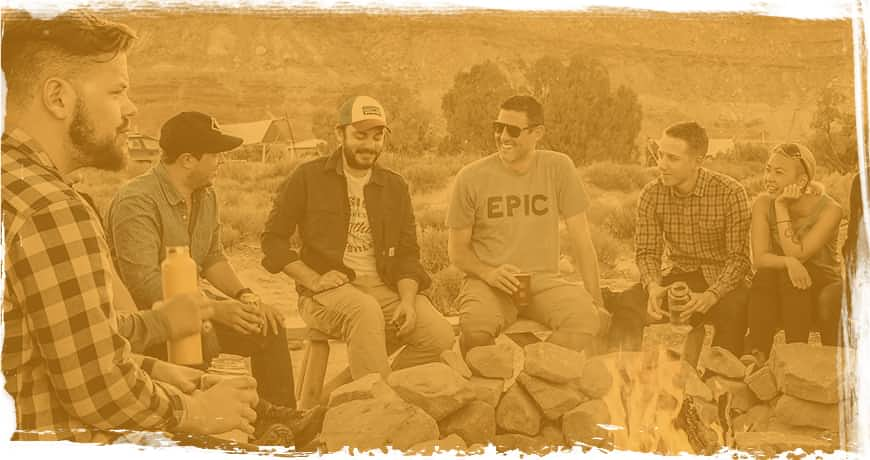
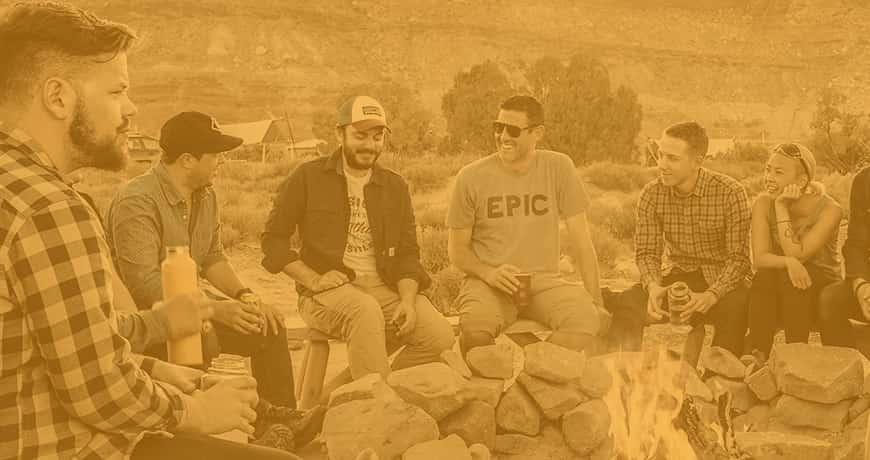
Доделал фон для программы

Changed region(s): [[0.0, 0.0, 1.0, 1.0], [0.0, 0.1522, 0.031, 0.3043]]

diff --git a/build/css/style.min.css b/build/css/style.min.css
@@ -1,4 +1,4 @@
 @font-face{font-display:swap;font-family:"Raleway";font-style:normal;font-weight:800;src:url(../fonts/raleway-800.woff2) format("woff2"),url(../fonts/raleway-800.woff) format("woff")}@font-face{font-display:swap;font-family:"Montserrat";font-style:normal;font-weight:700;src:url(../fonts/montserrat-700.woff2) format("woff2"),url(../fonts/montserrat-700.woff) format("woff")}@font-face{font-display:swap;font-family:"Fira Sans";font-style:normal;font-weight:400;src:url(../fonts/firasans-400.woff2) format("woff2"),url(../fonts/firasans-400.woff) format("woff")}@font-face{font-display:swap;font-family:"Fira Sans";font-style:normal;font-weight:500;src:url(../fonts/firasans-500.woff2) format("woff2"),url(../fonts/firasans-500.woff) format("woff")}@font-face{font-display:swap;font-family:"Fira Sans";font-style:normal;font-weight:700;src:url(../fonts/firasans-700.woff2) format("woff2"),url(../fonts/firasans-700.woff) format("woff")}
 /*! normalize.css v8.0.1 | MIT License | github.com/necolas/normalize.css */
-html{line-height:1.15;-webkit-text-size-adjust:100%}body{margin:0}details,main{display:block}h1{font-size:2em;margin:.67em 0}hr{-webkit-box-sizing:content-box;box-sizing:content-box;height:0;overflow:visible}code,kbd,pre,samp{font-family:monospace,monospace;font-size:1em}a{background-color:transparent}abbr[title]{border-bottom:none;-webkit-text-decoration:underline dotted;text-decoration:underline dotted}b,strong{font-weight:bolder}small{font-size:80%}sub,sup{font-size:75%;line-height:0;position:relative;vertical-align:baseline}sub{bottom:-.25em}sup{top:-.5em}img{border-style:none}button,input,optgroup,select,textarea{font-family:inherit;font-size:100%;line-height:1.15;margin:0}button,input{overflow:visible}button,select{text-transform:none}[type=button],[type=reset],[type=submit],button{-webkit-appearance:button}[type=button]::-moz-focus-inner,[type=reset]::-moz-focus-inner,[type=submit]::-moz-focus-inner,button::-moz-focus-inner{border-style:none;padding:0}[type=button]:-moz-focusring,[type=reset]:-moz-focusring,[type=submit]:-moz-focusring,button:-moz-focusring{outline:1px dotted ButtonText}fieldset{padding:.35em .75em .625em}legend{color:inherit;display:table;max-width:100%;white-space:normal}progress{vertical-align:baseline}textarea{overflow:auto}[type=checkbox],[type=radio],legend{-webkit-box-sizing:border-box;box-sizing:border-box;padding:0}[type=number]::-webkit-inner-spin-button,[type=number]::-webkit-outer-spin-button{height:auto}[type=search]{-webkit-appearance:textfield;outline-offset:-2px}[type=search]::-webkit-search-decoration{-webkit-appearance:none}::-webkit-file-upload-button{-webkit-appearance:button;font:inherit}summary{display:list-item}[hidden],template{display:none}*,::after,::before{-webkit-box-sizing:border-box;box-sizing:border-box}.visually-hidden{border:0;clip:rect(0 0 0 0);clip:rect(0,0,0,0);height:1px;margin:-1px;overflow:hidden;padding:0;position:absolute;width:1px}.container{padding:0 110px}@media screen and (max-width:767px){.container{padding:0 16px}}.d-flex{display:-webkit-box;display:-ms-flexbox;display:flex}.sprite{position:relative;background-image:url(../img/sprite/sprite@1x.png);background-repeat:no-repeat;background-size:341px 183px;display:block}.sprite--logo-header{width:137px;height:48px;background-position:-5px -130px}.sprite--logo-footer{width:85px;height:27px;background-position:-5px -89px}.sprite--bag{width:32px;height:25px;background-position:-5px -5px}.sprite--hand{width:32px;height:29px;background-position:-131px -5px}.sprite--hat{width:36px;height:35px;background-position:-47px -44px}.sprite--relig{width:23px;height:25px;background-position:-209px -57px}.sprite--star{width:28px;height:33px;background-position:-308px -57px}.sprite-container:hover .sprite--bag{background-position:-89px -5px}.sprite-container:hover .sprite--hand{background-position:-5px -44px}.sprite-container:hover .sprite--hat{background-position:-139px -44px}.sprite-container:hover .sprite--relig{background-position:-275px -57px}.sprite-container:hover .sprite--star{background-position:-247px -100px}.sprite-container:active .sprite--bag{background-position:-47px -5px}.sprite-container:active .sprite--hand{background-position:-173px -5px}.sprite-container:active .sprite--hat{background-position:-93px -44px}.sprite-container:active .sprite--relig{background-position:-242px -57px}.sprite-container:active .sprite--star{background-position:-209px -100px}.sprite img,.sprite picture{height:0;left:0;position:absolute;top:0;width:0}@media screen and (max-width:767px){.sprite--logo-header{width:120px;height:42px;background-position:-215px -5px}.sprite--logo-footer{width:99px;height:31px;background-position:-100px -89px}}@media (-webkit-min-device-pixel-ratio:1.5),(min-resolution:144dpi),(min-resolution:1.5dppx){.sprite{background-image:url(../img/sprite/sprite@2x.png)}}.list{list-style:none;margin:0;padding:0}.button{background-color:transparent;border:0;font-variant:small-caps;font-weight:600;padding:0;text-transform:lowercase}.button:hover{cursor:pointer}.link{color:inherit;text-decoration:none}.link:not(.active-link):hover{cursor:pointer}.link:not(.active-link):focus,.link:not(.active-link):hover{text-decoration:underline}.section{max-width:100%}.section h2{color:#1fc0fc;font-family:"Montserrat",Arial,"Helvetica CY","Nimbus Sans L",sans-serif;font-size:4rem;letter-spacing:-.02em;line-height:4.9rem;margin:0 0 25px;text-transform:uppercase}.section p{font-size:1.7rem;line-height:2.9rem}@media screen and (max-width:767px){.section h2{font-size:3.2rem;line-height:3.9rem}.section p{font-size:1.6rem;line-height:2.6rem}}:root{font-size:62.5%}.body{background-color:#fff;display:-webkit-box;display:-ms-flexbox;display:flex;-webkit-box-orient:vertical;-webkit-box-direction:normal;-ms-flex-direction:column;flex-direction:column;font-family:"Fira Sans",Arial,"Helvetica CY","Nimbus Sans L",sans-serif;font-size:1.7rem;line-height:1.7;height:100vh;max-width:1366px;margin:0 auto;min-width:320px;position:relative;width:100%}.body>*{-ms-flex-negative:0;flex-shrink:0}.header-container{padding-right:114px}.header{height:48px;font-size:1.5rem;font-weight:500;left:0;position:absolute;top:32px;width:100%;z-index:1}.header__logo{left:50%;position:absolute;top:0;-webkit-transform:translateX(-50%);transform:translateX(-50%)}.header__contacts{-webkit-box-align:center;-ms-flex-align:center;align-items:center;height:100%;-webkit-box-pack:justify;-ms-flex-pack:justify;justify-content:space-between;width:100%}.header__button{font-size:inherit;letter-spacing:.1em;position:relative}.header__button::after{border-bottom:2px #484848 solid;-o-border-image:repeating-linear-gradient(90deg,#484848,#484848 2px,transparent 2px,transparent 6px,#484848 6px,#484848 8px) 1;border-image:repeating-linear-gradient(90deg,#484848,#484848 2px,transparent 2px,transparent 6px,#484848 6px,#484848 8px) 1;bottom:-3px;content:"";display:block;left:0;position:absolute;width:100%}.header__button:hover,.header__phone:hover{opacity:.75}@media screen and (max-width:767px){.header-container{padding-right:7px}.header{top:20px;font-size:1.4rem}.header__logo{-ms-flex-negative:0;flex-shrink:0;position:static;-webkit-transform:none;transform:none}.header__contacts{-webkit-box-orient:vertical;-webkit-box-direction:normal;-ms-flex-direction:column;flex-direction:column;-webkit-box-align:end;-ms-flex-align:end;align-items:flex-end;margin-top:-3px}.header__button{margin-right:2px}}.banner{-webkit-box-align:center;-ms-flex-align:center;align-items:center;color:#fff;-webkit-box-orient:vertical;-webkit-box-direction:normal;-ms-flex-direction:column;flex-direction:column;overflow:hidden;position:relative;width:100%}.banner p{font-size:2.4rem;font-weight:700;line-height:2.9rem;margin-top:538px;text-align:center;text-shadow:0 1px 4px rgba(0,0,0,.12);width:343px}.banner__scroll-button{height:132px;margin-top:9px;margin-bottom:145px;width:76px}.banner img,.banner picture{left:0;min-height:100%;min-width:100%;position:absolute;top:0;z-index:-1}.banner img{left:50%;height:auto;-webkit-transform:translateX(-50%);transform:translateX(-50%);width:auto}@media screen and (max-width:767px){.banner{margin-top:32px}.banner p{font-size:2rem;line-height:2.4rem;margin-top:303px;width:290px}.banner__scroll-button{margin-top:12px;margin-bottom:85px}}.about{-webkit-box-align:center;-ms-flex-align:center;align-items:center;-webkit-box-orient:vertical;-webkit-box-direction:normal;-ms-flex-direction:column;flex-direction:column;margin-top:-11px}.about__info{max-width:100%}.about__info h2,.about__info p{text-align:center}.about__info p{margin:0 auto;max-width:69rem}.about__video-container{margin-top:47px;max-width:100%;position:relative}.about video{display:block;height:auto;max-width:870px;min-height:224px;-o-object-fit:cover;object-fit:cover;width:100%}.about__video-button,.about__video-button svg{display:block;height:96px;width:96px;position:absolute}.about__video-button{border:0;border-radius:100%;background-color:transparent;cursor:pointer;padding:0;overflow:hidden;-webkit-transform:translate(-50%,-50%);transform:translate(-50%,-50%);left:50%;top:50%}.about__video-button svg{left:0;top:0}.about__video-button .play{fill:#1fc0fc}.about__video-button:hover .play{fill:#63d3fd}.about__video-button:hover .inner{-webkit-filter:url(#about__filter0);filter:url(#about__filter0)}.about__video-button:active .inner{fill:#f4f4f4}@media screen and (max-width:767px){.about{margin-top:0}.about__info p{text-align:left}.about__video-button,.about__video-button svg{height:80px;width:80px}}
+html{line-height:1.15;-webkit-text-size-adjust:100%}body{margin:0}details,main{display:block}h1{font-size:2em;margin:.67em 0}hr{-webkit-box-sizing:content-box;box-sizing:content-box;height:0;overflow:visible}code,kbd,pre,samp{font-family:monospace,monospace;font-size:1em}a{background-color:transparent}abbr[title]{border-bottom:none;-webkit-text-decoration:underline dotted;text-decoration:underline dotted}b,strong{font-weight:bolder}small{font-size:80%}sub,sup{font-size:75%;line-height:0;position:relative;vertical-align:baseline}sub{bottom:-.25em}sup{top:-.5em}img{border-style:none}button,input,optgroup,select,textarea{font-family:inherit;font-size:100%;line-height:1.15;margin:0}button,input{overflow:visible}button,select{text-transform:none}[type=button],[type=reset],[type=submit],button{-webkit-appearance:button}[type=button]::-moz-focus-inner,[type=reset]::-moz-focus-inner,[type=submit]::-moz-focus-inner,button::-moz-focus-inner{border-style:none;padding:0}[type=button]:-moz-focusring,[type=reset]:-moz-focusring,[type=submit]:-moz-focusring,button:-moz-focusring{outline:1px dotted ButtonText}fieldset{padding:.35em .75em .625em}legend{color:inherit;display:table;max-width:100%;white-space:normal}progress{vertical-align:baseline}textarea{overflow:auto}[type=checkbox],[type=radio],legend{-webkit-box-sizing:border-box;box-sizing:border-box;padding:0}[type=number]::-webkit-inner-spin-button,[type=number]::-webkit-outer-spin-button{height:auto}[type=search]{-webkit-appearance:textfield;outline-offset:-2px}[type=search]::-webkit-search-decoration{-webkit-appearance:none}::-webkit-file-upload-button{-webkit-appearance:button;font:inherit}summary{display:list-item}[hidden],template{display:none}*,::after,::before{-webkit-box-sizing:border-box;box-sizing:border-box}.visually-hidden{border:0;clip:rect(0 0 0 0);clip:rect(0,0,0,0);height:1px;margin:-1px;overflow:hidden;padding:0;position:absolute;width:1px}.container{padding:0 110px}@media screen and (max-width:767px){.container{padding:0 16px}}.d-flex{display:-webkit-box;display:-ms-flexbox;display:flex}.sprite{position:relative;background-image:url(../img/sprite/sprite@1x.png);background-repeat:no-repeat;background-size:341px 183px;display:block}.sprite--logo-header{width:137px;height:48px;background-position:-5px -130px}.sprite--logo-footer{width:85px;height:27px;background-position:-5px -89px}.sprite--bag{width:32px;height:25px;background-position:-5px -5px}.sprite--hand{width:32px;height:29px;background-position:-131px -5px}.sprite--hat{width:36px;height:35px;background-position:-47px -44px}.sprite--relig{width:23px;height:25px;background-position:-209px -57px}.sprite--star{width:28px;height:33px;background-position:-308px -57px}.sprite-container:hover .sprite--bag{background-position:-89px -5px}.sprite-container:hover .sprite--hand{background-position:-5px -44px}.sprite-container:hover .sprite--hat{background-position:-139px -44px}.sprite-container:hover .sprite--relig{background-position:-275px -57px}.sprite-container:hover .sprite--star{background-position:-247px -100px}.sprite-container:active .sprite--bag{background-position:-47px -5px}.sprite-container:active .sprite--hand{background-position:-173px -5px}.sprite-container:active .sprite--hat{background-position:-93px -44px}.sprite-container:active .sprite--relig{background-position:-242px -57px}.sprite-container:active .sprite--star{background-position:-209px -100px}.sprite img,.sprite picture{height:0;left:0;position:absolute;top:0;width:0}@media screen and (max-width:767px){.sprite--logo-header{width:120px;height:42px;background-position:-215px -5px}.sprite--logo-footer{width:99px;height:31px;background-position:-100px -89px}}@media (-webkit-min-device-pixel-ratio:1.5),(min-resolution:144dpi),(min-resolution:1.5dppx){.sprite{background-image:url(../img/sprite/sprite@2x.png)}}.list{list-style:none;margin:0;padding:0}.button{background-color:transparent;border:0;font-variant:small-caps;font-weight:600;padding:0;text-transform:lowercase}.button:hover{cursor:pointer}.link{color:inherit;text-decoration:none}.link:not(.active-link):hover{cursor:pointer}.link:not(.active-link):focus,.link:not(.active-link):hover{text-decoration:underline}.section{max-width:100%}.section h2{color:#1fc0fc;font-family:"Montserrat",Arial,"Helvetica CY","Nimbus Sans L",sans-serif;font-size:4rem;letter-spacing:-.02em;line-height:4.9rem;margin:0 0 25px;text-transform:uppercase}.section p{font-size:1.7rem;line-height:2.9rem}@media screen and (max-width:767px){.section h2{font-size:3.2rem;line-height:3.9rem}.section p{font-size:1.6rem;line-height:2.6rem}}:root{font-size:62.5%}.body{background-color:#fff;display:-webkit-box;display:-ms-flexbox;display:flex;-webkit-box-orient:vertical;-webkit-box-direction:normal;-ms-flex-direction:column;flex-direction:column;font-family:"Fira Sans",Arial,"Helvetica CY","Nimbus Sans L",sans-serif;font-size:1.7rem;line-height:1.7;height:100vh;max-width:1366px;margin:0 auto;min-width:320px;position:relative;width:100%}.body>*{-ms-flex-negative:0;flex-shrink:0}.header-container{padding-right:114px}.header{height:48px;font-size:1.5rem;font-weight:500;left:0;position:absolute;top:32px;width:100%;z-index:1}.header__logo{left:50%;position:absolute;top:0;-webkit-transform:translateX(-50%);transform:translateX(-50%)}.header__contacts{-webkit-box-align:center;-ms-flex-align:center;align-items:center;height:100%;-webkit-box-pack:justify;-ms-flex-pack:justify;justify-content:space-between;width:100%}.header__button{font-size:inherit;letter-spacing:.1em;position:relative}.header__button::after{border-bottom:2px #484848 solid;-o-border-image:repeating-linear-gradient(90deg,#484848,#484848 2px,transparent 2px,transparent 6px,#484848 6px,#484848 8px) 1;border-image:repeating-linear-gradient(90deg,#484848,#484848 2px,transparent 2px,transparent 6px,#484848 6px,#484848 8px) 1;bottom:-3px;content:"";display:block;left:0;position:absolute;width:100%}.header__button:hover,.header__phone:hover{opacity:.75}@media screen and (max-width:767px){.header-container{padding-right:7px}.header{top:20px;font-size:1.4rem}.header__logo{-ms-flex-negative:0;flex-shrink:0;position:static;-webkit-transform:none;transform:none}.header__contacts{-webkit-box-orient:vertical;-webkit-box-direction:normal;-ms-flex-direction:column;flex-direction:column;-webkit-box-align:end;-ms-flex-align:end;align-items:flex-end;margin-top:-3px}.header__button{margin-right:2px}}.banner{-webkit-box-align:center;-ms-flex-align:center;align-items:center;color:#fff;-webkit-box-orient:vertical;-webkit-box-direction:normal;-ms-flex-direction:column;flex-direction:column;overflow:hidden;position:relative;width:100%}.banner p{font-size:2.4rem;font-weight:700;line-height:2.9rem;margin-top:538px;text-align:center;text-shadow:0 1px 4px rgba(0,0,0,.12);width:343px}.banner__scroll-button{height:132px;margin-top:9px;margin-bottom:145px;width:76px}.banner img,.banner picture{left:0;min-height:100%;min-width:100%;position:absolute;top:0;z-index:-1}.banner img{left:50%;height:auto;-webkit-transform:translateX(-50%);transform:translateX(-50%);width:auto}@media screen and (max-width:767px){.banner{margin-top:32px}.banner p{font-size:2rem;line-height:2.4rem;margin-top:303px;width:290px}.banner__scroll-button{margin-top:12px;margin-bottom:85px}}.about{-webkit-box-align:center;-ms-flex-align:center;align-items:center;-webkit-box-orient:vertical;-webkit-box-direction:normal;-ms-flex-direction:column;flex-direction:column;margin-top:-11px;padding-bottom:96px;background-image:url(../img/about/about-bg@1x--lg.jpg);background-position:bottom;background-size:1366px 604px;background-repeat:no-repeat}@media (-webkit-min-device-pixel-ratio:1.5),(min-resolution:144dpi),(min-resolution:1.5dppx){.about{background-image:url(../img/about/about-bg@2x--lg.jpg)}}.about video,.about__info{max-width:100%}.about__info h2,.about__info p{text-align:center}.about__info p{margin:0 auto;max-width:69rem}.about__video-container{height:100%;margin-top:47px;max-width:100%;position:relative}.about video{background-color:rgba(236,218,61,.849);display:block;height:auto;-webkit-mask:url(../../img/about/video-mask.png);mask:url(../../img/about/video-mask.png);-webkit-mask-position:center;mask-position:center;-webkit-mask-repeat:no-repeat;mask-repeat:no-repeat;-webkit-mask-size:870px 100%;mask-size:870px 100%;min-height:224px;-o-object-fit:cover;object-fit:cover;width:870px}.about__video-button,.about__video-button svg{display:block;height:96px;width:96px;position:absolute}.about__video-button{border:0;border-radius:100%;cursor:pointer;padding:0;overflow:hidden;-webkit-transform:translate(-50%,-50%);transform:translate(-50%,-50%);z-index:5;left:50%;top:50%}.about__video-button svg{left:0;top:0}.about__video-button .play{fill:#1fc0fc}.about__video-button:hover .play{fill:#63d3fd}.about__video-button:hover .inner{-webkit-filter:url(#about__filter0);filter:url(#about__filter0)}.about__video-button:active .inner{fill:#f4f4f4}@media screen and (max-width:767px){.about{margin-top:0;padding-bottom:0;background-image:url(../img/about/about-bg@1x--sm.jpg);background-position:top 58% right 0;background-size:320px 186px}}@media screen and (max-width:767px) and (-webkit-min-device-pixel-ratio:1.5),screen and (max-width:767px) and (min-resolution:144dpi),screen and (max-width:767px) and (min-resolution:1.5dppx){.about{background-image:url(../img/about/about-bg@2x--sm.jpg)}}@media screen and (max-width:767px){.about__info p{text-align:left}.about__video-button,.about__video-button svg{height:80px;width:80px}}
 /*# sourceMappingURL=style.min.css.map */

diff --git a/build/css/style.css b/build/css/style.css
@@ -669,7 +669,15 @@ template {
   -webkit-box-direction: normal;
       -ms-flex-direction: column;
           flex-direction: column;
-  margin-top: -11px; }
+  margin-top: -11px;
+  padding-bottom: 96px;
+  background-image: url("../img/about/about-bg@1x--lg.jpg");
+  background-position: bottom;
+  background-size: 1366px 604px;
+  background-repeat: no-repeat; }
+  @media (-webkit-min-device-pixel-ratio: 1.5), (min-resolution: 144dpi), (min-resolution: 1.5dppx) {
+    .about {
+      background-image: url("../img/about/about-bg@2x--lg.jpg"); } }
 
 .about__info {
   max-width: 100%; }
@@ -683,23 +691,32 @@ template {
   max-width: 69rem; }
 
 .about__video-container {
+  height: 100%;
   margin-top: 47px;
   max-width: 100%;
   position: relative; }
 
 .about video {
+  background-color: rgba(236, 218, 61, 0.849);
   display: block;
   height: auto;
-  max-width: 870px;
+  -webkit-mask: url("../../img/about/video-mask.png");
+          mask: url("../../img/about/video-mask.png");
+  -webkit-mask-position: center;
+          mask-position: center;
+  -webkit-mask-repeat: no-repeat;
+          mask-repeat: no-repeat;
+  -webkit-mask-size: 870px 100%;
+          mask-size: 870px 100%;
+  max-width: 100%;
   min-height: 224px;
   -o-object-fit: cover;
      object-fit: cover;
-  width: 100%; }
+  width: 870px; }
 
 .about__video-button {
   border: none;
   border-radius: 100%;
-  background-color: transparent;
   cursor: pointer;
   left: 50%;
   padding: 0;
@@ -707,7 +724,8 @@ template {
   overflow: hidden;
   top: 50%;
   -webkit-transform: translate(-50%, -50%);
-          transform: translate(-50%, -50%); }
+          transform: translate(-50%, -50%);
+  z-index: 5; }
 
 .about__video-button,
 .about__video-button svg {
@@ -735,7 +753,16 @@ template {
 
 @media screen and (max-width: 767px) {
   .about {
-    margin-top: 0; }
+    margin-top: 0;
+    padding-bottom: 0;
+    background-image: url("../img/about/about-bg@1x--sm.jpg");
+    background-position: top 58% right 0;
+    background-size: 320px 186px; } }
+  @media screen and (max-width: 767px) and (-webkit-min-device-pixel-ratio: 1.5), screen and (max-width: 767px) and (min-resolution: 144dpi), screen and (max-width: 767px) and (min-resolution: 1.5dppx) {
+    .about {
+      background-image: url("../img/about/about-bg@2x--sm.jpg"); } }
+
+@media screen and (max-width: 767px) {
   .about__info p {
     text-align: left; }
   .about__video-button,

diff --git a/source/sass/components/_about.scss b/source/sass/components/_about.scss
@@ -2,6 +2,18 @@
   align-items: center;
   flex-direction: column;
   margin-top: -11px;
+  padding-bottom: 96px;
+
+  background: {
+    image: url("../img/about/about-bg@1x--lg.jpg");
+    position: bottom;
+    size: 1366px 604px;
+    repeat: no-repeat;
+  }
+
+  @include mret() {
+    background-image: url("../img/about/about-bg@2x--lg.jpg");
+  }
 }
 
 .about__info {
@@ -19,24 +31,34 @@
 }
 
 .about__video-container {
+  height: 100%;
   margin-top: 47px;
   max-width: 100%;
   position: relative;
 }
 
 .about video {
+  background-color: rgba(236, 218, 61, 0.849);
   display: block;
   height: auto;
-  max-width: 870px;
+
+  mask: url("../../img/about/video-mask.png");
+  mask-position: center;
+
+  mask-repeat: no-repeat;
+  mask-size: 870px 100%;
+  //ломает FF
+  // mask-size: cover;
+
+  max-width: 100%;
   min-height: 224px;
   object-fit: cover;
-  width: 100%;
+  width: 870px;
 }
 
 .about__video-button {
   border: none;
   border-radius: 100%;
-  background-color: transparent;
   cursor: pointer;
   left: 50%;
   padding: 0;
@@ -44,6 +66,7 @@
   overflow: hidden;
   top: 50%;
   transform: translate(-50%, -50%);
+  z-index: 5;
 }
 
 .about__video-button,
@@ -78,6 +101,14 @@
 @include mq(phone) {
   .about {
     margin-top: 0;
+    padding-bottom: 0;
+    background-image: url("../img/about/about-bg@1x--sm.jpg");
+    background-position: top 58% right 0;
+    background-size: 320px 186px;
+
+    @include mret() {
+      background-image: url("../img/about/about-bg@2x--sm.jpg");
+    }
   }
 
   .about__info p {
